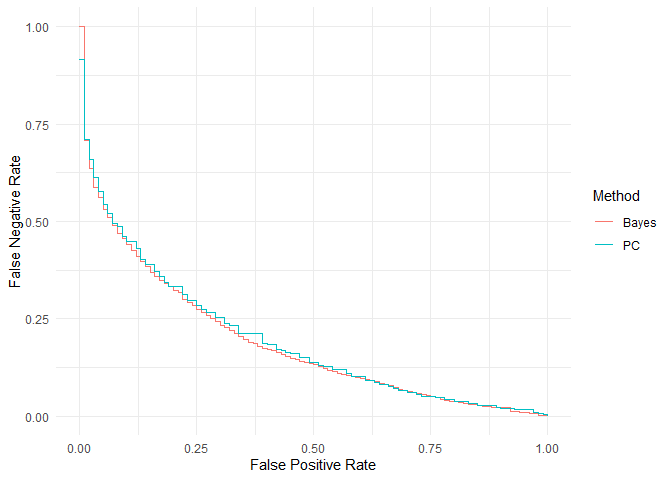
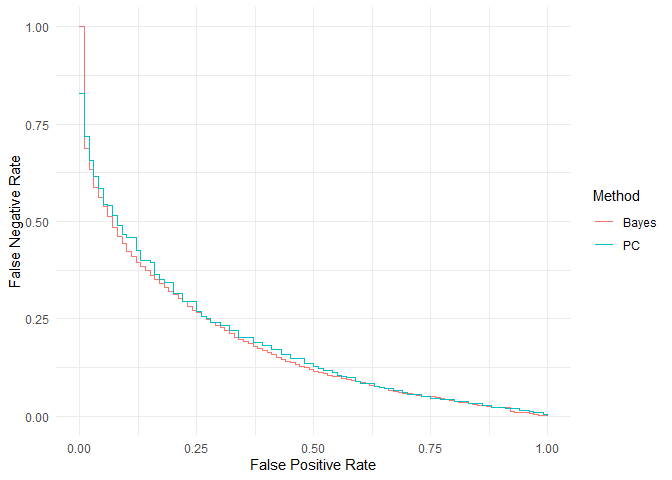
CRAN prep

diff --git a/README.md b/README.md
@@ -61,35 +61,33 @@ problem <- forecast(problem)
 
 # Find some candidate decision rules are their OCs
 design <- fahb_design(problem)
-#> Searching for efficient progression criteria...
-#> Approximating Bayesian operating characteristics...
 
 print(design)
 #> Standard progression criteria
 #> 
-#>     FPR        FNR        n_p        m_p         r_p
-#> 1   0.0 0.91467814 16.4641589 -0.5926573 13.24656305
-#> 11  0.1 0.44908435 10.2938437 -0.6705851  6.09395120
-#> 21  0.2 0.33240844  6.9955302  0.3987109  6.20278434
-#> 41  0.4 0.18410100 -0.3374165  0.9249259  5.62947944
-#> 51  0.5 0.13831853  1.6399851  0.6354703  5.01023827
-#> 71  0.7 0.06076582  0.6879755  0.4335003  3.71864419
-#> 81  0.8 0.03634850  1.1947214 -0.7722553  2.85460567
-#> 91  0.9 0.01997780 -0.3148560  0.9080757  1.69344163
-#> 101 1.0 0.00000000 -0.6494104 -0.8812036 -0.05611385
+#>     FPR        FNR         n_p          m_p        r_p
+#> 1   0.0 0.82817058 17.81878829 -0.059458005  9.6590446
+#> 11  0.1 0.45825809  9.57670582  1.334793215  6.6483566
+#> 21  0.2 0.31559939  6.90517099  0.182386148  6.0045943
+#> 41  0.4 0.18030282  1.59558082  0.759740721  5.6010379
+#> 51  0.5 0.12835116  2.70338476  1.696370342  4.5998899
+#> 71  0.7 0.05625781  0.14306472  0.904175281  3.5567570
+#> 81  0.8 0.03681067 -0.30186503  0.937890251  2.8416713
+#> 91  0.9 0.02222531 -0.90403448 -0.022824150  1.9307604
+#> 101 1.0 0.00000000  0.01221748  0.008838253 -0.7620012
 #> 
 #> Bayesian approximation
 #> 
 #>     FPR        FNR      T_p
-#> 1   0.0 1.00000000 1.334127
-#> 11  0.1 0.44048280 3.115271
-#> 21  0.2 0.32311321 3.297020
-#> 41  0.4 0.17092120 3.567992
-#> 51  0.5 0.13249168 3.677042
-#> 71  0.7 0.06298557 3.891836
-#> 81  0.8 0.03648724 4.010800
-#> 91  0.9 0.02261376 4.133067
-#> 101 1.0 0.00000000 4.509784
+#> 1   0.0 1.00000000 1.441843
+#> 11  0.1 0.42366995 3.123216
+#> 21  0.2 0.31309904 3.298833
+#> 41  0.4 0.16335602 3.594781
+#> 51  0.5 0.11543270 3.721615
+#> 71  0.7 0.05723017 3.916746
+#> 81  0.8 0.03653285 4.001302
+#> 91  0.9 0.02139186 4.085859
+#> 101 1.0 0.00000000 4.554172
 #> 
 #> FPR - False Positive Rate
 #> FNR - False Negative Rate

diff --git a/cran-comments.md b/cran-comments.md
@@ -1,0 +1,5 @@
+## R CMD check results
+
+0 errors | 0 warnings | 2 notes
+
+* This is a new release

diff --git a/NEWS.md b/NEWS.md
@@ -1,0 +1,3 @@
+# tout 1.0.0
+
++ First version released to CRAN
